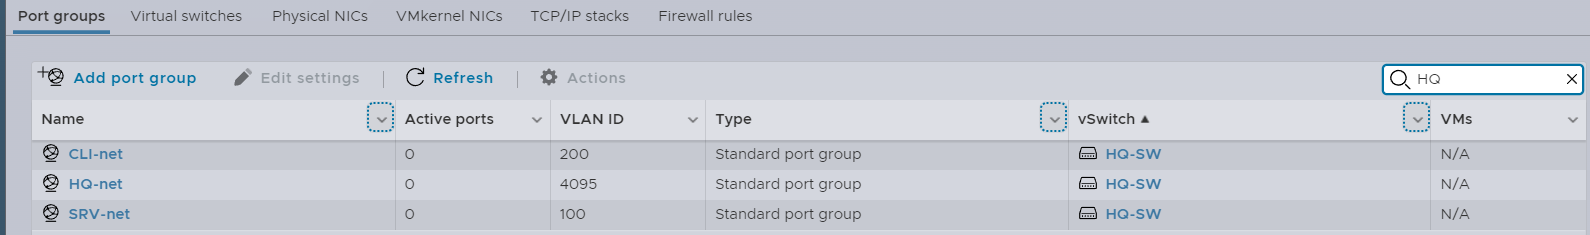
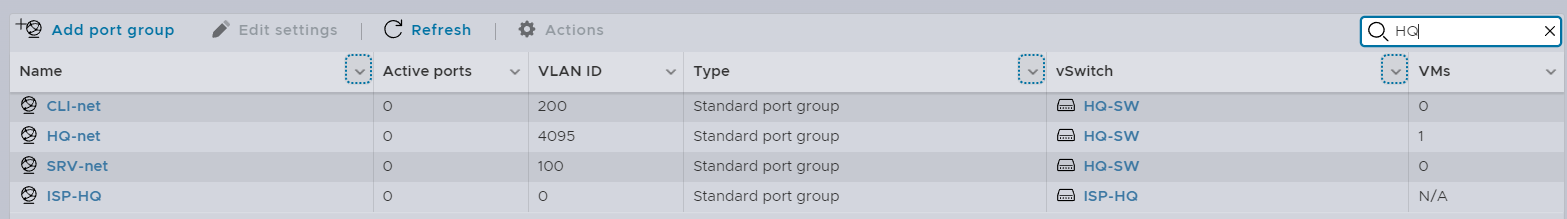
fix

diff --git a/create_topology/create_virtual_switch/README.md b/create_topology/create_virtual_switch/README.md
@@ -26,7 +26,7 @@
 
 13. Проделываем этапы с 6 по 12 для `CLI-net`. Для `HQ-net` нужно сделать `trunk` режим. Для этого в поле `VLAN ID` задаем значение `4095`
 
-В результате должно получиться `три` виртуальныйх коммутатора и `пять` порт групп
+В результате должно получиться `четыре` виртуальныйх коммутатора и `пять` порт групп
 
 <img src="05.png" width='600'>
 <img src="06.png" width='600'>

diff --git a/create_topology/connect_vms/README.md b/create_topology/connect_vms/README.md
@@ -1,0 +1,11 @@
+# Подключаем виртуальные машины
+
+1. Заходим в виртуальную машину `BR-SRV`
+2. Нажимаем `edit`
+
+<img src="01.png" width='600'>
+
+3. В пункте `Network adapter` выбираем виртуальную сеть `BR-Net`
+4. Нажимаем кнопку `SAVE`
+
+<img src="02.png" width='600'>
